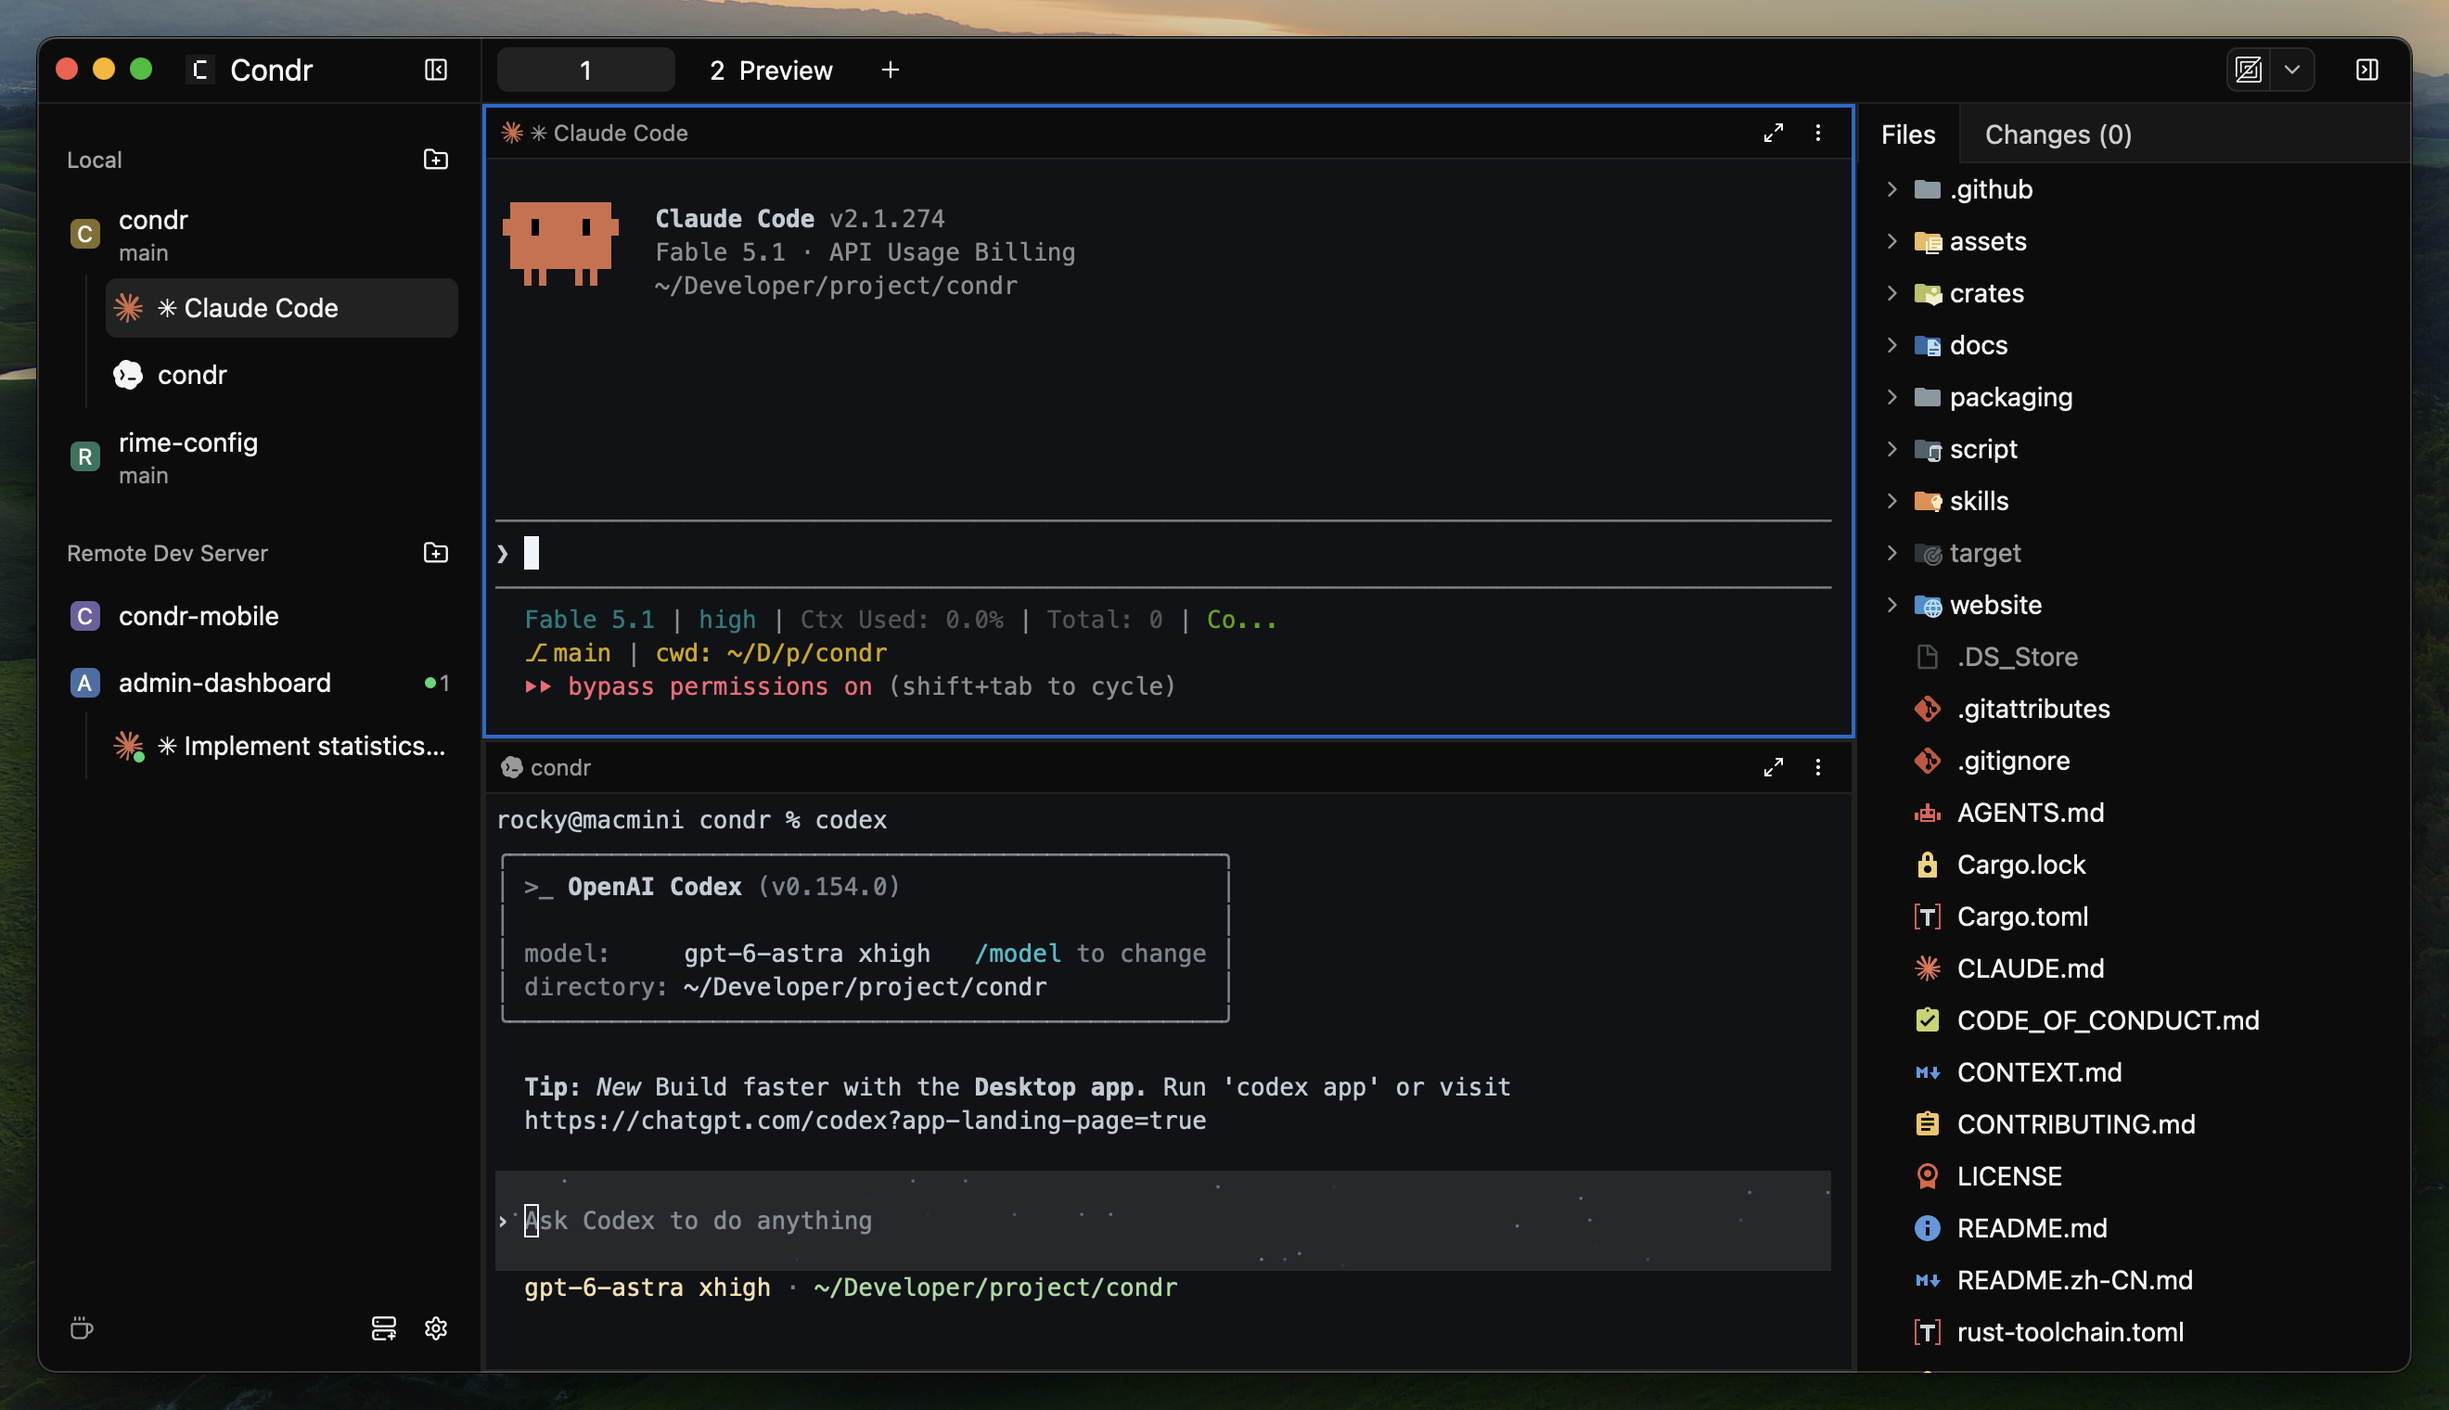
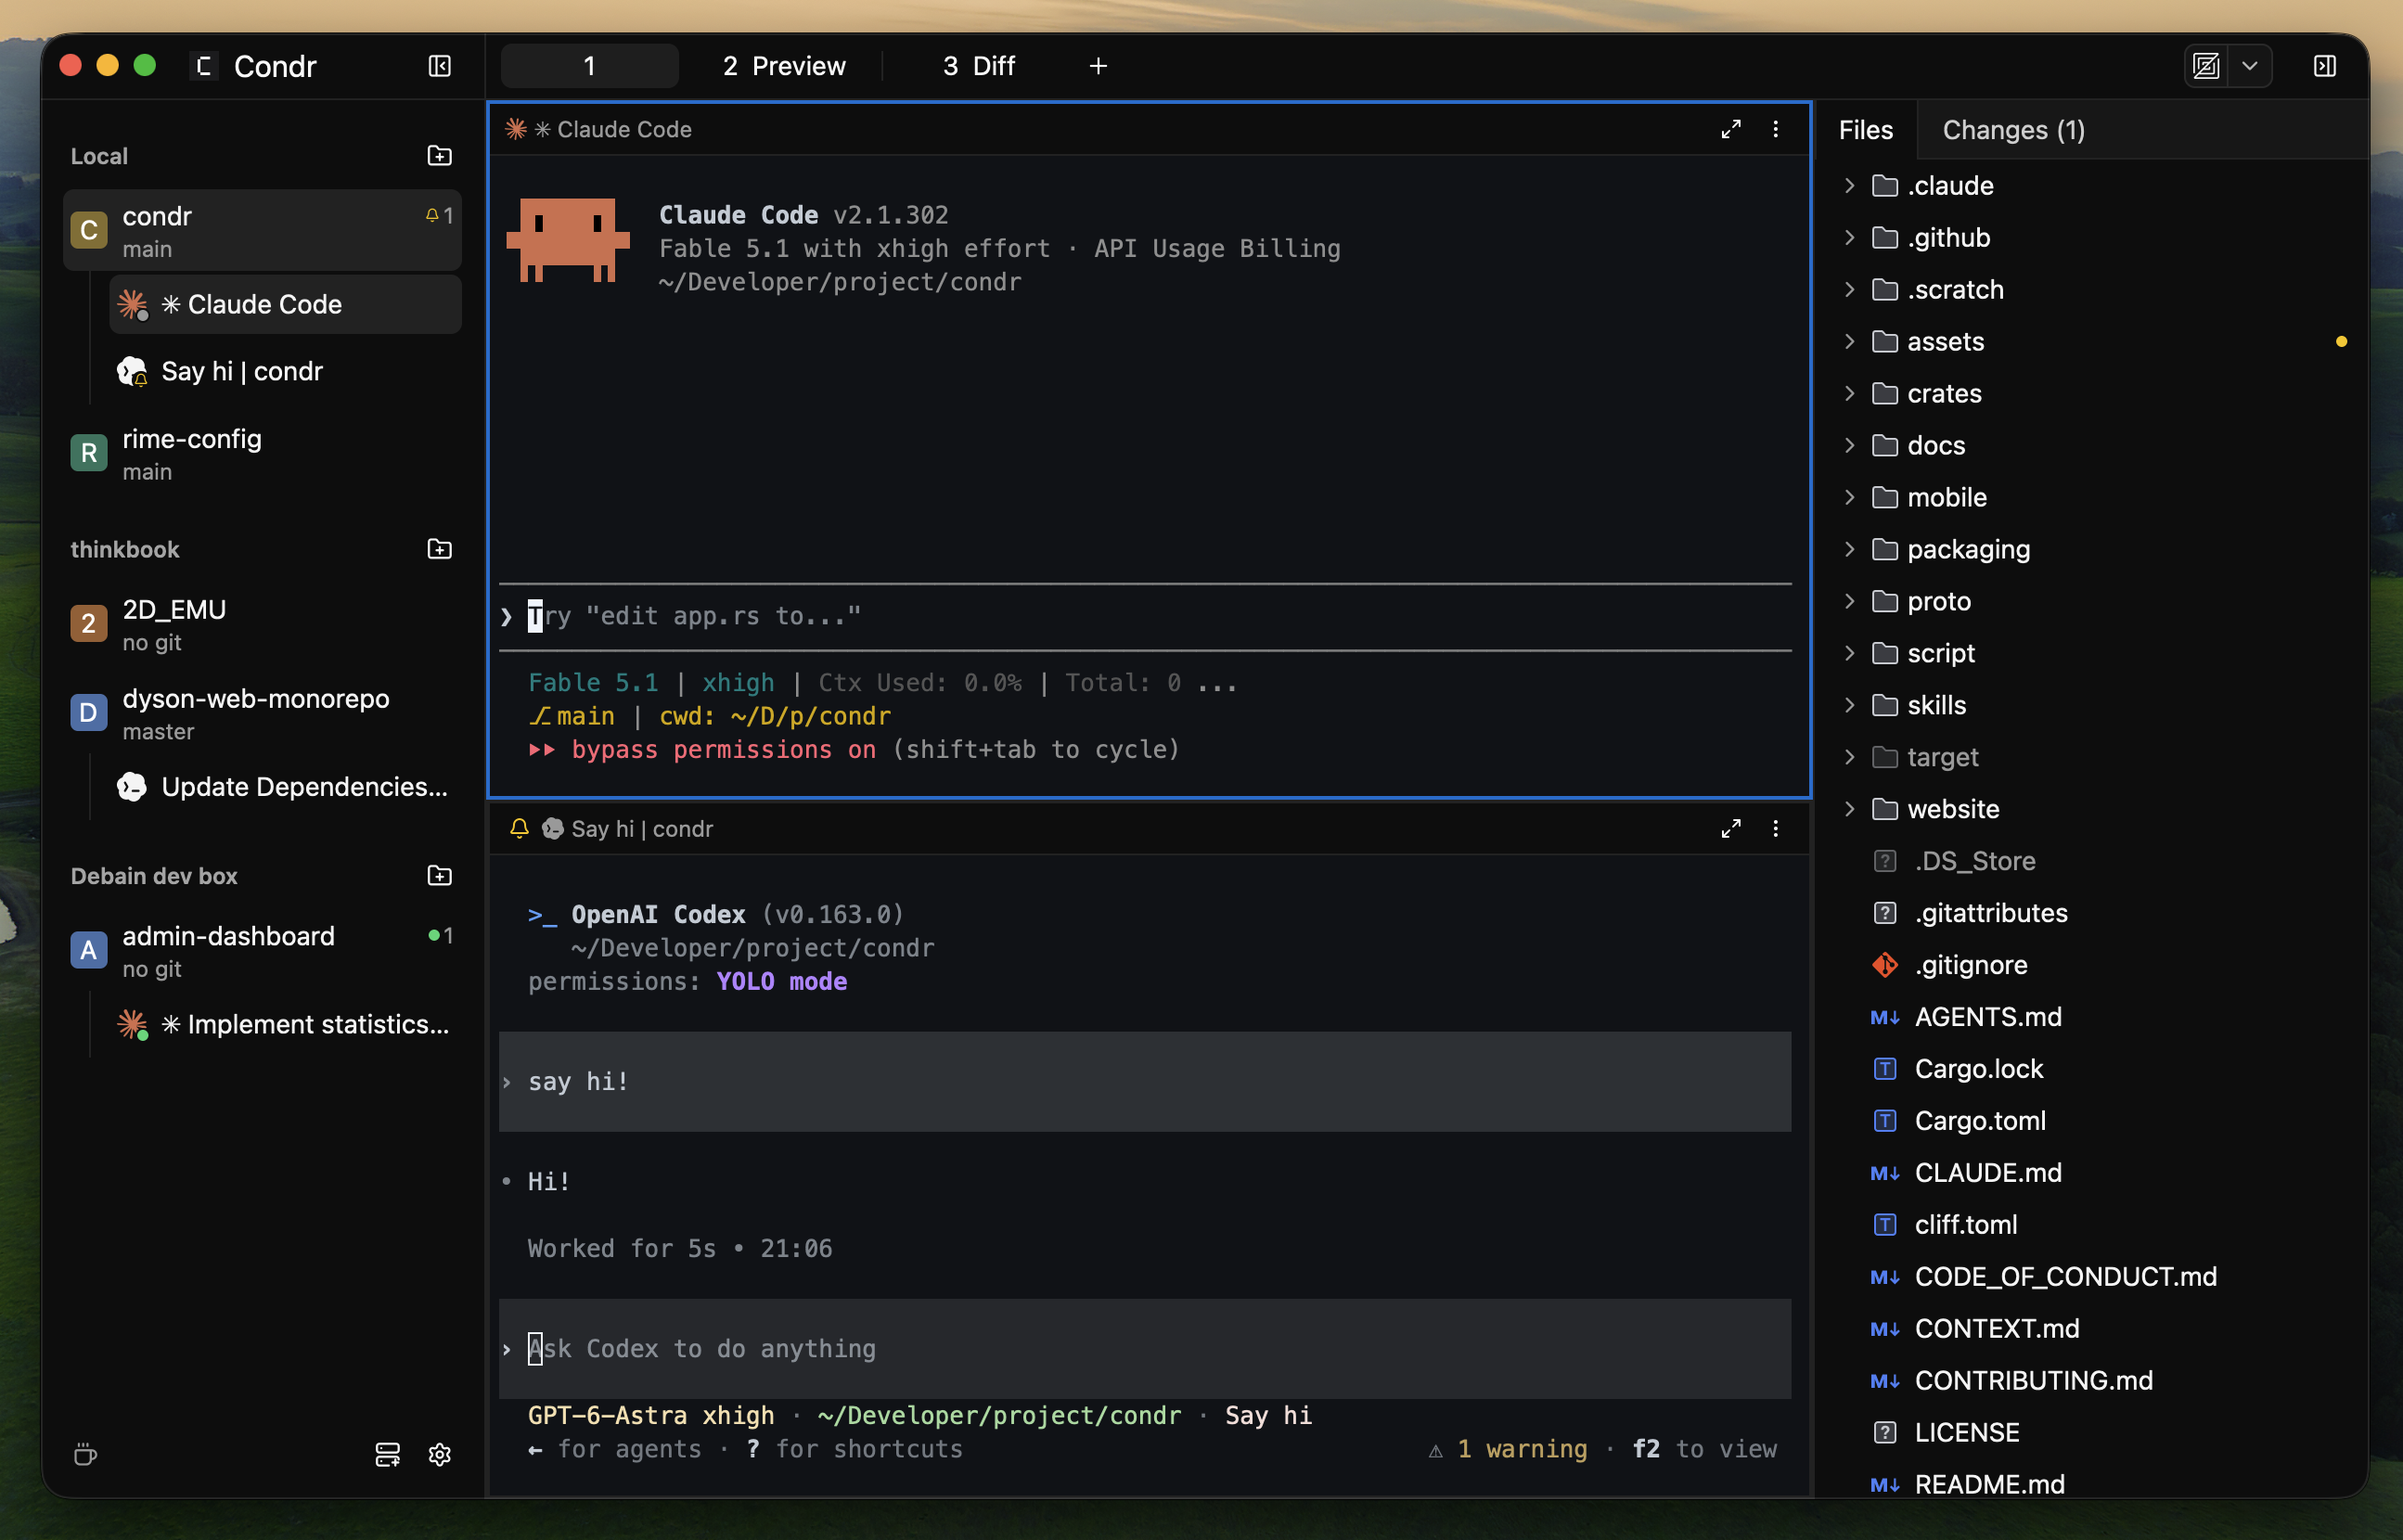
docs: the website shows the mobile app beside the desktop one, marked coming soon
The home page's hero switches between the refreshed desktop screenshot and three
phone screens (welcome, Agents, a computer's page), cropped under the status bar.
The download page lists iOS and Android under Mobile App with the same badge.

diff --git a/website/src/styles/home.css b/website/src/styles/home.css
@@ -37,6 +37,7 @@ code { font-family: var(--mono); font-size: .875em; }
 .button:hover { background: var(--accent); color: var(--paper); }
 .text-link, .download a:not([class]), .methods a { text-decoration: underline; text-decoration-thickness: 1px; text-underline-offset: 3px; }
 .text-link:hover, .download a:not([class]):hover, .methods a:hover { color: var(--accent); }
+.badge { display: inline-block; padding: 2px 8px; border-radius: 999px; background: var(--accent); color: var(--paper); font-size: .6875rem; font-weight: 600; letter-spacing: 0; line-height: 1.4; white-space: nowrap; }
 
 /* Hero: the lede and actions fill the space the two short last lines of the headline leave,
    hanging from the baseline of its second line; the screenshot runs full width below. */
@@ -50,14 +51,30 @@ code { font-family: var(--mono); font-size: .875em; }
 /* The dot-matrix logo fills the space the headline's first line leaves on the right, from the hero's top
    padding to 24px above the lede's rule, which centres the C on that line. */
 .hero-mark { grid-column: 9 / 13; grid-row: 1; width: 100%; height: calc(var(--display) * 1.562 + 32px); margin-top: -56px; }
-.hero-shot { grid-column: 1 / -1; margin-top: 96px; }
+/* Two buttons under the hero switch the screenshot between the desktop app and the Companion, three
+   phone screens, cropped under the status bar, side by side a little under life size. Pure CSS, through :has(). */
+.hero-switch { grid-column: 1 / -1; display: flex; justify-content: center; gap: 12px; margin-top: 72px; }
+.hero-switch label { position: relative; cursor: pointer; }
+.hero-switch input { position: absolute; inset: 0; margin: 0; opacity: 0; cursor: pointer; }
+/* Quiet tabs: grey words, and a pill with a hairline around the chosen one. */
+.hero-switch span { display: block; padding: 8px 28px; border: 1px solid transparent; border-radius: 999px; color: var(--grey); font-size: 1.0625rem; }
+.hero-switch label:hover span { color: var(--ink); }
+.hero-switch input:checked + span { background: rgba(255, 255, 255, .07); border-color: rgba(255, 255, 255, .3); color: var(--ink); }
+.hero-switch .badge { display: none; position: absolute; top: -9px; right: -4px; }
+.hero-switch input:checked + span .badge { display: block; }
+.hero-switch input:focus-visible + span { outline: 2px solid var(--accent); outline-offset: 2px; }
+.hero-shot { grid-column: 1 / -1; margin-top: 24px; }
 .hero-shot img { display: block; width: 100%; height: auto; }
+.hero-shot-mobile { grid-column: 2 / 12; display: grid; grid-template-columns: repeat(3, minmax(0, 1fr)); column-gap: var(--gap); }
+.hero-shot-mobile img { border: 1px solid var(--line); border-radius: 16px; }
+.hero:has(#shot-mobile:checked) .hero-shot-desktop, .hero:has(#shot-desktop:checked) .hero-shot-mobile { display: none; }
 @media (max-width: 1180px) {
   .hero-side { grid-column: 7 / 13; }
 }
 /* Narrower, the block no longer fits under the first line, so it moves below the headline. */
 @media (max-width: 1000px) {
   .hero-side { grid-column: 1 / 8; grid-row: 2; align-self: start; margin: 40px 0 0; }
+  .hero-shot-mobile { grid-column: 1 / -1; }
 }
 
 /* Content rows: a heading on the left half, its copy on the right half. */
@@ -121,7 +138,9 @@ code { font-family: var(--mono); font-size: .875em; }
 .download-platform { padding-top: 16px; border-top: 2px solid var(--ink); scroll-margin-top: 88px; }
 .download-platform + .download-platform { margin-top: 40px; border-top: 1px solid var(--line); }
 .download-head { display: flex; justify-content: space-between; align-items: center; margin-bottom: 16px; font-size: 1.25rem; font-weight: 700; letter-spacing: -.02em; }
-.download-status { color: var(--grey); font-size: .875rem; font-weight: 500; letter-spacing: 0; }
+/* The two mobile platforms, in the download button's place but inert and grey. */
+.download-stores { display: grid; grid-template-columns: 1fr 1fr; gap: 12px; }
+.download-stores span { display: flex; justify-content: center; align-items: center; height: 52px; box-shadow: inset 0 0 0 1px var(--line); color: var(--grey); font-weight: 600; }
 .download-choice { display: flex; border: 1px solid var(--line); }
 .download-choice label { position: relative; cursor: pointer; }
 .download-choice input { position: absolute; inset: 0; margin: 0; opacity: 0; cursor: pointer; }
@@ -153,7 +172,10 @@ code { font-family: var(--mono); font-size: .875em; }
   .hero h1 { font-size: clamp(3rem, 16vw, 5.5rem); }
   .hero-mark { display: none; }
   .hero-side { margin-top: 40px; }
-  .hero-shot { margin-top: 40px; }
+  .hero-switch { margin-top: 40px; }
+  /* The phones bleed to the screen's edges and snap one at a time. */
+  .hero-shot-mobile { grid-template-columns: none; grid-auto-flow: column; grid-auto-columns: 72%; margin-inline: -16px; padding-inline: 16px; overflow-x: auto; scroll-snap-type: x mandatory; scroll-padding-inline: 16px; scrollbar-width: none; }
+  .hero-shot-mobile img { border-radius: 12px; scroll-snap-align: start; }
   .row { padding-top: 88px; }
   .row-copy, .agents, .features, .methods { margin-top: 32px; }
   .agents, .features, .methods > div { grid-template-columns: minmax(0, 1fr); }
